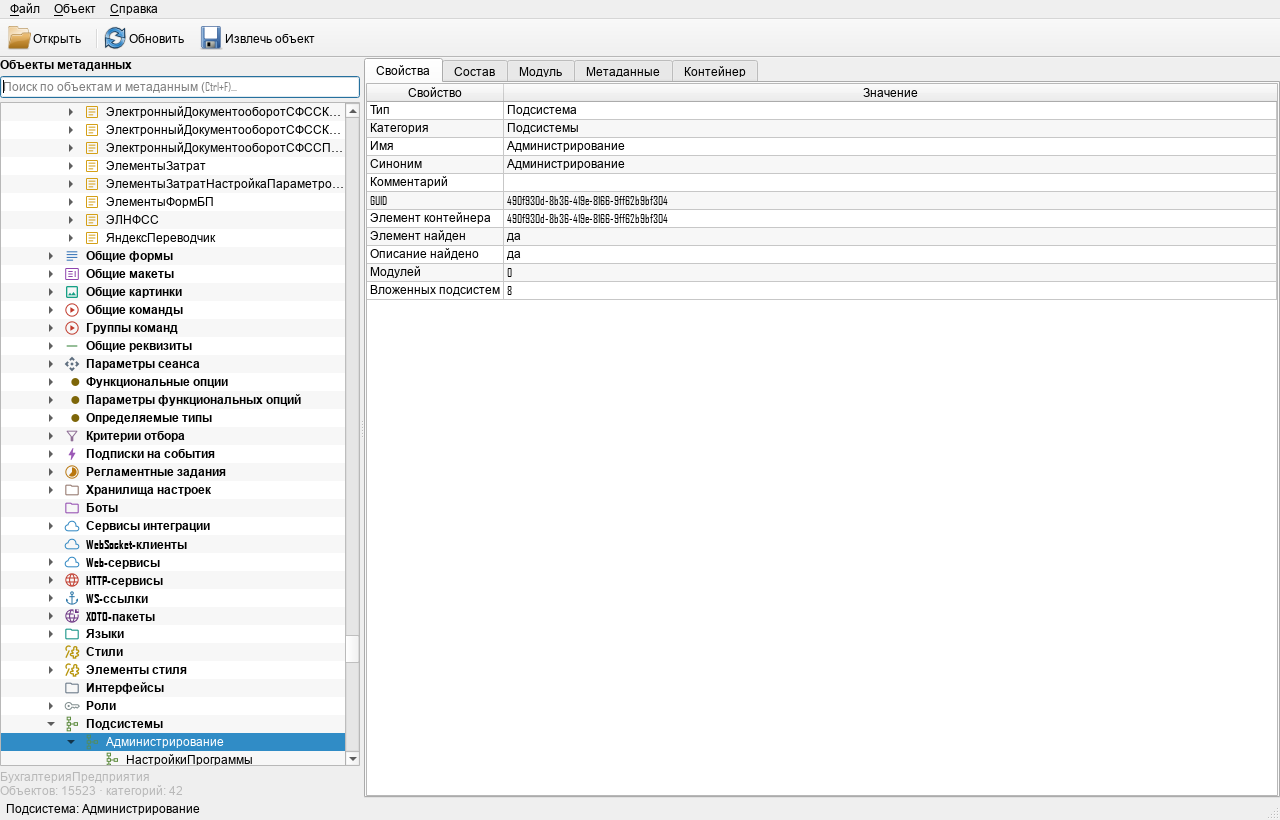
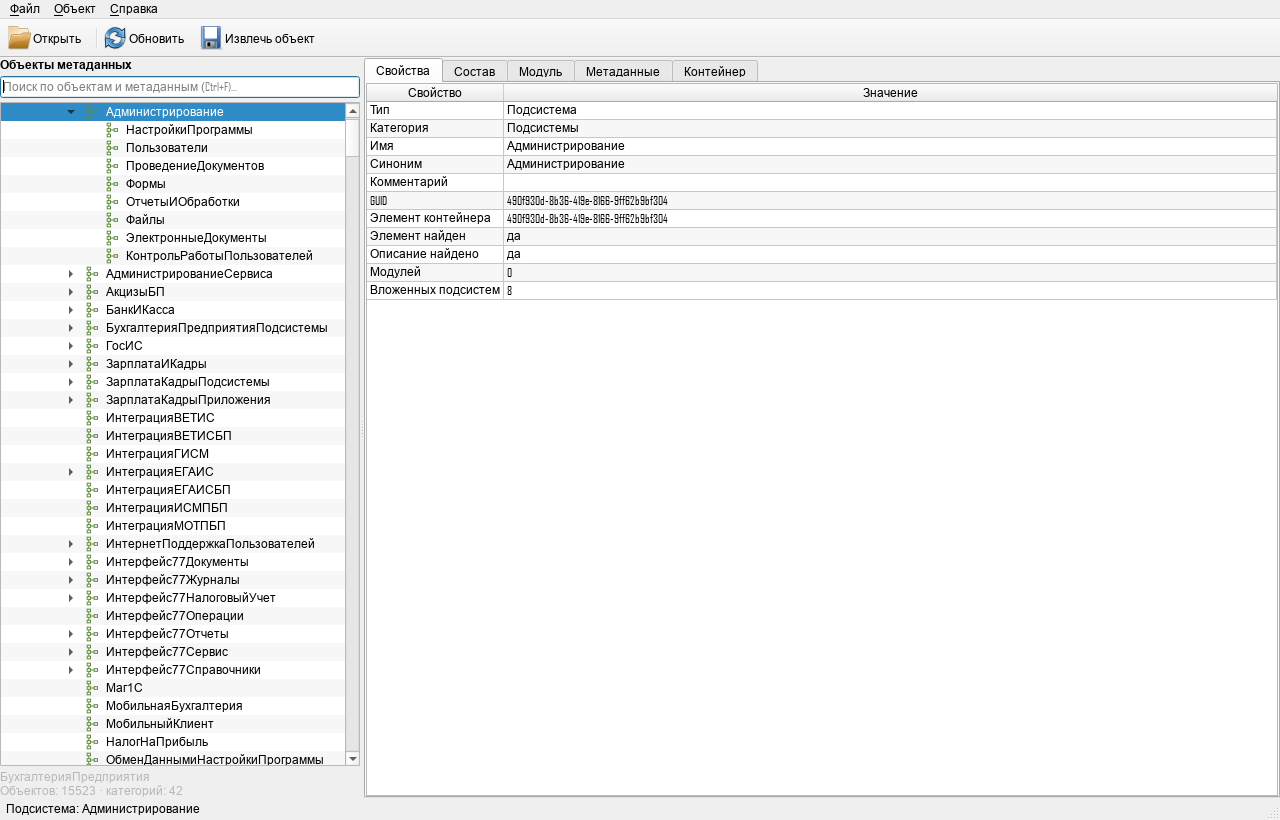
fix(gui): 1C order of the Common branch
- order of Common objects follows the 1C:Enterprise 8.3 developer guide
  (5.5): Subsystems, Common modules, Session parameters, Roles,
  Common attributes, Exchange plans, Filter criteria, Event subscriptions,
  Scheduled jobs, Bots, Functional options, ..., Languages
- Exchange plans moved from the tree root into Common (as in 1C)
- Document numerators and sequences are now sub-branches of Documents
- Legacy Interfaces branch is not synthesized for 8.3 (shown only if present)
- new --expand-common option and GUI self-check for the Common order
  and Documents sub-branches
- README: screenshot of the Common branch

Changed region(s): [[0.0, 0.122, 0.2812, 0.9451]]

diff --git a/src/gui/MainWindow.cpp b/src/gui/MainWindow.cpp
@@ -226,6 +226,24 @@ QString sectionIconName(MetadataSectionKind kind)
 }
 
 // Порядок стандартных веток конфигурации как в 1С:Предприятие 8.3.
+const QString &documentsCategoryGuid()
+{
+    static const QString guid = QStringLiteral("061d872a-5787-460e-95ac-ed74ea3a3e84");
+    return guid;
+}
+
+const QString &numeratorsCategoryGuid()
+{
+    static const QString guid = QStringLiteral("36a8e346-9aaa-4af9-bdbd-83be3c177977");
+    return guid;
+}
+
+const QString &sequencesCategoryGuid()
+{
+    static const QString guid = QStringLiteral("bc587f20-35d9-11d6-a3c7-0050bae0a776");
+    return guid;
+}
+
 const QStringList &canonicalTopLevelOrder()
 {
     static const QStringList order = {
@@ -233,11 +251,9 @@ const QStringList &canonicalTopLevelOrder()
         QStringLiteral("cf4abea6-37b2-11d4-940f-008048da11f9"), // Справочники
         QStringLiteral("061d872a-5787-460e-95ac-ed74ea3a3e84"), // Документы
         QStringLiteral("4612bd75-71b7-4a5c-8cc5-2b0b65f9fa0d"), // Журналы документов
-        QStringLiteral("36a8e346-9aaa-4af9-bdbd-83be3c177977"), // Нумераторы
         QStringLiteral("f6a80749-5ad7-400b-8519-39dc5dff2542"), // Перечисления
         QStringLiteral("631b75a0-29e2-11d6-a3c7-0050bae0a776"), // Отчеты
         QStringLiteral("bf845118-327b-4682-b5c6-285d2a0eb296"), // Обработки
-        QStringLiteral("857c4a91-e5f4-4fac-86ec-787626f1c108"), // Планы обмена
         QStringLiteral("82a1b659-b220-4d94-a9bd-14d757b95a48"), // Планы видов характеристик
         QStringLiteral("238e7e88-3c5f-48b2-8a3b-81ebbecb20ed"), // Планы счетов
         QStringLiteral("30b100d6-b29f-47ac-aec7-cb8ca8a54767"), // Планы видов расчета
@@ -245,7 +261,6 @@ const QStringList &canonicalTopLevelOrder()
         QStringLiteral("b64d9a40-1642-11d6-a3c7-0050bae0a776"), // Регистры накопления
         QStringLiteral("2deed9b8-0056-4ffe-a473-c20a6c32a0bc"), // Регистры бухгалтерии
         QStringLiteral("f2de87a8-64e5-45eb-a22d-b3aedab050e7"), // Регистры расчета
-        QStringLiteral("bc587f20-35d9-11d6-a3c7-0050bae0a776"), // Последовательности
         QStringLiteral("fcd3404e-1523-48ce-9bc0-ecdb822684a1"), // Бизнес-процессы
         QStringLiteral("3e63355c-1378-4953-be9b-1deb5fb6bec5"), // Задачи
         QStringLiteral("5274d9fc-9c3a-4a71-8f5e-a0db8ab23de5"), // Внешние источники данных
@@ -256,63 +271,57 @@ const QStringList &canonicalTopLevelOrder()
 // Ветки, которые в 1С показываются даже при отсутствии объектов.
 const QStringList &standardVisibleBranches()
 {
-    static const QStringList branches = {
-        QStringLiteral("0195e80c-b157-11d4-9435-004095e12fc7"), // Константы
-        QStringLiteral("cf4abea6-37b2-11d4-940f-008048da11f9"), // Справочники
-        QStringLiteral("061d872a-5787-460e-95ac-ed74ea3a3e84"), // Документы
-        QStringLiteral("4612bd75-71b7-4a5c-8cc5-2b0b65f9fa0d"), // Журналы документов
-        QStringLiteral("f6a80749-5ad7-400b-8519-39dc5dff2542"), // Перечисления
-        QStringLiteral("631b75a0-29e2-11d6-a3c7-0050bae0a776"), // Отчеты
-        QStringLiteral("bf845118-327b-4682-b5c6-285d2a0eb296"), // Обработки
-        // Планы обмена показываем только при наличии объектов (как в 1С)
-        QStringLiteral("82a1b659-b220-4d94-a9bd-14d757b95a48"), // Планы видов характеристик
-        QStringLiteral("238e7e88-3c5f-48b2-8a3b-81ebbecb20ed"), // Планы счетов
-        QStringLiteral("30b100d6-b29f-47ac-aec7-cb8ca8a54767"), // Планы видов расчета
-        QStringLiteral("13134201-f60b-11d5-a3c7-0050bae0a776"), // Регистры сведений
-        QStringLiteral("b64d9a40-1642-11d6-a3c7-0050bae0a776"), // Регистры накопления
-        QStringLiteral("2deed9b8-0056-4ffe-a473-c20a6c32a0bc"), // Регистры бухгалтерии
-        QStringLiteral("f2de87a8-64e5-45eb-a22d-b3aedab050e7"), // Регистры расчета
-        QStringLiteral("fcd3404e-1523-48ce-9bc0-ecdb822684a1"), // Бизнес-процессы
-        QStringLiteral("3e63355c-1378-4953-be9b-1deb5fb6bec5"), // Задачи
-        QStringLiteral("5274d9fc-9c3a-4a71-8f5e-a0db8ab23de5"), // Внешние источники данных
-    };
-    return branches;
+    return canonicalTopLevelOrder();
 }
 
-// Порядок веток внутри группы «Общие» (как в 1С).
+// Порядок веток внутри группы «Общие» (как в конфигураторе 1С 8.3:
+// Руководство разработчика, гл. 5.5 «Ветвь конфигурации "Общие"»).
 const QStringList &canonicalCommonOrder()
 {
     static const QStringList order = {
+        QStringLiteral("37f2fa9a-b276-11d4-9435-004095e12fc7"), // Подсистемы
         QStringLiteral("0fe48980-252d-11d6-a3c7-0050bae0a776"), // Общие модули
-        QStringLiteral("07ee8426-87f1-11d5-b99c-0050bae0a95d"), // Общие формы
-        QStringLiteral("0c89c792-16c3-11d5-b96b-0050bae0a95d"), // Общие макеты
-        QStringLiteral("7dcd43d9-aca5-4926-b549-1842e6a4e8cf"), // Общие картинки
-        QStringLiteral("2f1a5187-fb0e-4b05-9489-dc5dd6412348"), // Общие команды
-        QStringLiteral("1c57eabe-7349-44b3-b1de-ebfeab67b47d"), // Группы команд
-        QStringLiteral("15794563-ccec-41f6-a83c-ec5f7b9a5bc1"), // Общие реквизиты
         QStringLiteral("24c43748-c938-45d0-8d14-01424a72b11e"), // Параметры сеанса
-        QStringLiteral("af547940-3268-434f-a3e7-e47d6d2638c3"), // Функциональные опции
-        QStringLiteral("30d554db-541e-4f62-8970-a1c6dcfeb2bc"), // Параметры функц. опций
-        QStringLiteral("c045099e-13b9-4fb6-9d50-fca00202971e"), // Определяемые типы
+        QStringLiteral("09736b02-9cac-4e3f-b4f7-d3e9576ab948"), // Роли
+        QStringLiteral("15794563-ccec-41f6-a83c-ec5f7b9a5bc1"), // Общие реквизиты
+        QStringLiteral("857c4a91-e5f4-4fac-86ec-787626f1c108"), // Планы обмена
         QStringLiteral("3e7bfcc0-067d-11d6-a3c7-0050bae0a776"), // Критерии отбора
         QStringLiteral("4e828da6-0f44-4b5b-b1c0-a2b3cfe7bdcc"), // Подписки на события
         QStringLiteral("11bdaf85-d5ad-4d91-bb24-aa0eee139052"), // Регламентные задания
-        QStringLiteral("46b4cd97-fd13-4eaa-aba2-3bddd7699218"), // Хранилища настроек
         QStringLiteral("6e6dc072-b7ac-41e7-8f88-278d25b6da2a"), // Боты
-        QStringLiteral("bf3420b0-f6f9-41a0-b83a-fe9d4ab0b65d"), // Сервисы интеграции
-        QStringLiteral("a7641777-7813-45c6-96ef-9d51587a6ac6"), // WebSocket-клиенты
+        QStringLiteral("af547940-3268-434f-a3e7-e47d6d2638c3"), // Функциональные опции
+        QStringLiteral("30d554db-541e-4f62-8970-a1c6dcfeb2bc"), // Параметры функц. опций
+        QStringLiteral("c045099e-13b9-4fb6-9d50-fca00202971e"), // Определяемые типы
+        QStringLiteral("46b4cd97-fd13-4eaa-aba2-3bddd7699218"), // Хранилища настроек
+        QStringLiteral("07ee8426-87f1-11d5-b99c-0050bae0a95d"), // Общие формы
+        QStringLiteral("2f1a5187-fb0e-4b05-9489-dc5dd6412348"), // Общие команды
+        QStringLiteral("1c57eabe-7349-44b3-b1de-ebfeab67b47d"), // Группы команд
+        QStringLiteral("0c89c792-16c3-11d5-b96b-0050bae0a95d"), // Общие макеты
+        QStringLiteral("7dcd43d9-aca5-4926-b549-1842e6a4e8cf"), // Общие картинки
+        QStringLiteral("cc9df798-7c94-4616-97d2-7aa0b7bc515e"), // XDTO-пакеты
         QStringLiteral("8657032e-7740-4e1d-a3ba-5dd6e8afb78f"), // Web-сервисы
         QStringLiteral("0fffc09c-8f4c-47cc-b41c-8d5c5a221d79"), // HTTP-сервисы
+        QStringLiteral("a7641777-7813-45c6-96ef-9d51587a6ac6"), // WebSocket-клиенты
         QStringLiteral("d26096fb-7a5d-4df9-af63-47d04771fa9b"), // WS-ссылки
-        QStringLiteral("cc9df798-7c94-4616-97d2-7aa0b7bc515e"), // XDTO-пакеты
-        QStringLiteral("9cd510ce-abfc-11d4-9434-004095e12fc7"), // Языки
+        QStringLiteral("bf3420b0-f6f9-41a0-b83a-fe9d4ab0b65d"), // Сервисы интеграции
         QStringLiteral("3e5404af-6ef8-4c73-ad11-91bd2dfac4c8"), // Стили
         QStringLiteral("58848766-36ea-4076-8800-e91eb49590d7"), // Элементы стиля
-        QStringLiteral("39bddf6a-0c3c-452b-921c-d99cfa1c2f1b"), // Интерфейсы
-        QStringLiteral("09736b02-9cac-4e3f-b4f7-d3e9576ab948"), // Роли
-        QStringLiteral("37f2fa9a-b276-11d4-9435-004095e12fc7"), // Подсистемы
+        QStringLiteral("9cd510ce-abfc-11d4-9434-004095e12fc7"), // Языки
+        QStringLiteral("39bddf6a-0c3c-452b-921c-d99cfa1c2f1b"), // Интерфейсы (устар.)
     };
     return order;
+}
+
+// Ветки группы «Общие», которые в 1С показываются даже при отсутствии объектов.
+const QStringList &standardCommonVisibleBranches()
+{
+    static const QStringList branches = [] {
+        QStringList list = canonicalCommonOrder();
+        // «Интерфейсы» — объект старых версий, в 8.3 в дереве не показывается.
+        list.removeAll(QStringLiteral("39bddf6a-0c3c-452b-921c-d99cfa1c2f1b"));
+        return list;
+    }();
+    return branches;
 }
 
 bool isStandardVisibleBranch(const QString &guid)
@@ -320,15 +329,15 @@ bool isStandardVisibleBranch(const QString &guid)
     return standardVisibleBranches().contains(guid.toLower());
 }
 
+bool isCanonicalTopLevel(const QString &guid)
+{
+    return canonicalTopLevelOrder().contains(guid.toLower());
+}
+
 bool isSubsystemCategory(const QString &guid)
 {
     return guid.compare(QStringLiteral("37f2fa9a-b276-11d4-9435-004095e12fc7"),
                         Qt::CaseInsensitive) == 0;
-}
-
-bool isCanonicalTopLevel(const QString &guid)
-{
-    return canonicalTopLevelOrder().contains(guid.toLower());
 }
 
 // Категории, которые в дереве 1С собраны в группу «Общие».
@@ -867,9 +876,62 @@ QString MainWindow::smokeReport()
         }
     }
 
+    // Порядок веток группы «Общие» (как в 1С).
+    for (int i = 0; i < m_tree->topLevelItemCount(); ++i) {
+        QTreeWidgetItem *rootItem = m_tree->topLevelItem(i);
+        for (int j = 0; j < rootItem->childCount(); ++j) {
+            QTreeWidgetItem *groupItem = rootItem->child(j);
+            if (groupItem->data(0, KindRole).toInt() != GroupItem)
+                continue;
+
+            QStringList commonTitles;
+            for (int k = 0; k < groupItem->childCount() && k < 8; ++k)
+                commonTitles << groupItem->child(k)->text(0);
+            lines << QStringLiteral("общие: %1")
+                         .arg(commonTitles.join(QStringLiteral(", ")));
+            break;
+        }
+
+        for (int j = 0; j < rootItem->childCount(); ++j) {
+            QTreeWidgetItem *categoryItem = rootItem->child(j);
+            if (categoryItem->data(0, KindRole).toInt() != CategoryItem)
+                continue;
+            if (categoryItem->text(0) != QStringLiteral("Документы"))
+                continue;
+
+            QStringList subBranches;
+            for (int k = 0; k < categoryItem->childCount(); ++k) {
+                QTreeWidgetItem *child = categoryItem->child(k);
+                if (child->data(0, KindRole).toInt() == CategoryItem)
+                    subBranches << child->text(0);
+            }
+            lines << QStringLiteral("подветки документов: %1")
+                         .arg(subBranches.join(QStringLiteral(", ")));
+            break;
+        }
+    }
     return lines.join(QLatin1Char('\n'));
 }
 
+void MainWindow::expandCommonBranch()
+{
+    if (m_tree->topLevelItemCount() == 0)
+        return;
+
+    for (int i = 0; i < m_tree->topLevelItemCount(); ++i) {
+        QTreeWidgetItem *rootItem = m_tree->topLevelItem(i);
+        for (int j = 0; j < rootItem->childCount(); ++j) {
+            QTreeWidgetItem *groupItem = rootItem->child(j);
+            if (groupItem->data(0, KindRole).toInt() != GroupItem)
+                continue;
+            groupItem->setExpanded(true);
+            m_tree->setCurrentItem(rootItem);
+            m_tree->scrollToItem(rootItem);
+            QCoreApplication::processEvents();
+            return;
+        }
+    }
+}
 void MainWindow::openFileDialog()
 {
     const QString filter = QStringLiteral(
@@ -1086,25 +1148,41 @@ void MainWindow::buildTree()
         for (const QString &guid : canonicalCommonOrder()) {
             if (const MetadataCategory *category = byGuid.value(guid.toLower())) {
                 addCategoryItem(groupItem, *category);
-            } else if (showEmptyBranches) {
+            } else if (showEmptyBranches
+                       && standardCommonVisibleBranches().contains(guid)) {
                 addPlaceholderCategoryItem(groupItem, guid);
             }
         }
     }
 
     // Остальные стандартные ветки в порядке 1C.
+    QTreeWidgetItem *documentsItem = nullptr;
     for (const QString &guid : canonicalTopLevelOrder()) {
         if (const MetadataCategory *category = byGuid.value(guid.toLower())) {
-            addCategoryItem(rootItem, *category);
+            QTreeWidgetItem *categoryItem = addCategoryItem(rootItem, *category);
+            if (guid.compare(documentsCategoryGuid(), Qt::CaseInsensitive) == 0)
+                documentsItem = categoryItem;
         } else if (showEmptyBranches && isStandardVisibleBranch(guid)) {
             addPlaceholderCategoryItem(rootItem, guid);
+        }
+    }
+
+    // Нумераторы и последовательности — подветки «Документов», как в 1C.
+    QSet<QString> movedCategories;
+    if (documentsItem) {
+        for (const QString &guid : {numeratorsCategoryGuid(), sequencesCategoryGuid()}) {
+            if (const MetadataCategory *category = byGuid.value(guid.toLower())) {
+                addCategoryItem(documentsItem, *category);
+                movedCategories.insert(guid.toLower());
+            }
         }
     }
 
     // Нестандартные/дополнительные категории — в конце, в порядке файла.
     for (const MetadataCategory &category : configuration.categories) {
         if (isCommonCategoryGuid(category.guid)
-            || isCanonicalTopLevel(category.guid)) {
+            || isCanonicalTopLevel(category.guid)
+            || movedCategories.contains(category.guid.toLower())) {
             continue;
         }
         addCategoryItem(rootItem, category);

diff --git a/src/gui/main.cpp b/src/gui/main.cpp
@@ -19,6 +19,7 @@ int main(int argc, char *argv[])
     window.show();
 
     bool smokeTest = false;
+    bool expandCommon = false;
     QString screenshotPath;
     QString filePath;
     const QStringList arguments = QCoreApplication::arguments();
@@ -26,6 +27,10 @@ int main(int argc, char *argv[])
         const QString argument = arguments.at(i);
         if (argument == QStringLiteral("--smoke")) {
             smokeTest = true;
+            continue;
+        }
+        if (argument == QStringLiteral("--expand-common")) {
+            expandCommon = true;
             continue;
         }
         if (argument == QStringLiteral("--screenshot")
@@ -39,6 +44,9 @@ int main(int argc, char *argv[])
 
     if (!filePath.isEmpty())
         window.openInitialFile(filePath);
+
+    if (expandCommon)
+        window.expandCommonBranch();
 
     if (smokeTest || !screenshotPath.isEmpty()) {
         QCoreApplication::processEvents();

diff --git a/src/gui/MainWindow.h b/src/gui/MainWindow.h
@@ -40,6 +40,7 @@ public:
     void openInitialFile(const QString &path);
 
     bool isFileOpen() const;
+    void expandCommonBranch();
     int objectCount() const;
     QString fileKindTitle() const;
     // Проверка работоспособности без показа окна: открывает первый объект

diff --git a/README.md b/README.md
@@ -44,6 +44,13 @@
 
 Вид по умолчанию — стандартные ветки конфигурации, как в 1С.
 
+![Ветка «Общие» в порядке 1С](docs/screenshot-common.png)
+
+Порядок объектов в ветке «Общие» соответствует конфигуратору 1С:
+Подсистемы, Общие модули, Параметры сеанса, Роли, Общие реквизиты,
+Планы обмена, Критерии отбора, … , Языки. «Нумераторы» и
+«Последовательности» находятся внутри ветки «Документы».
+
 ![Состав объекта в дереве](docs/screenshot-composition.png)
 
 Раскрытый объект: модули, макеты, табличные части и реквизиты.
